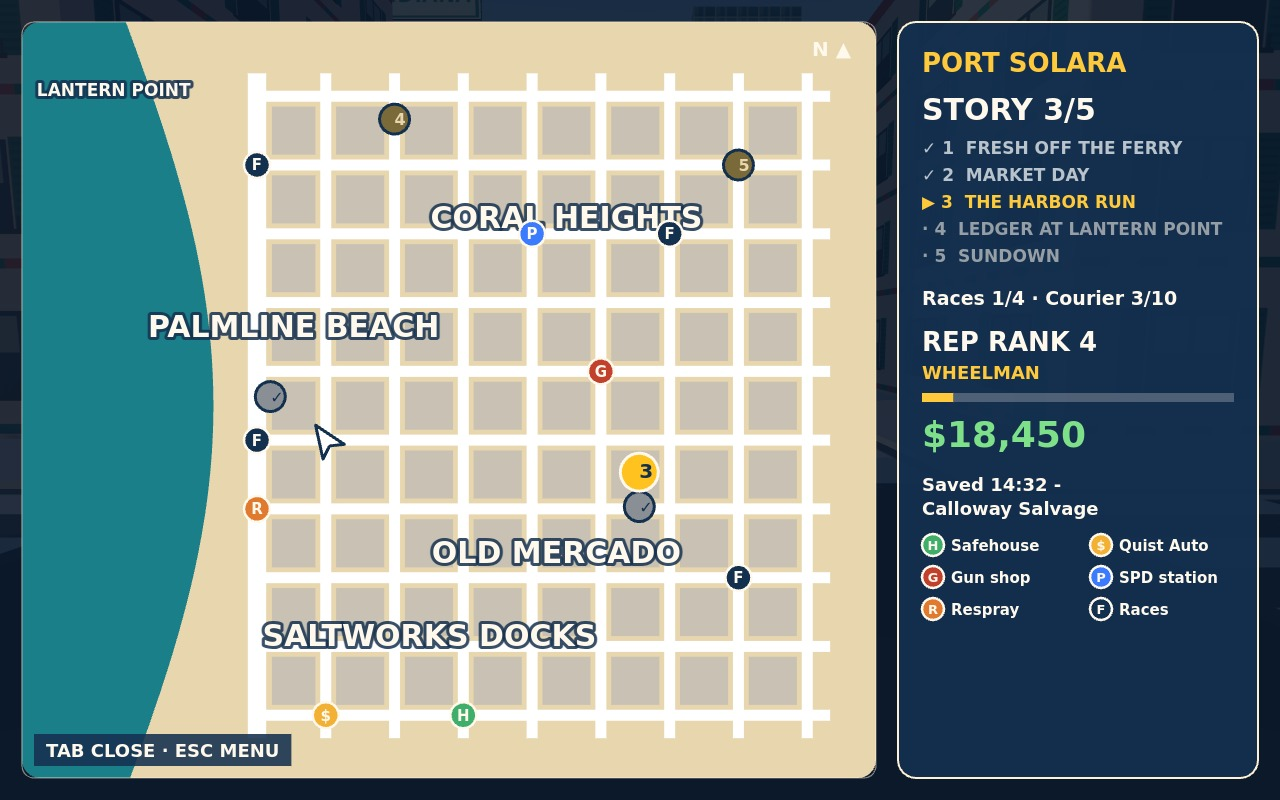
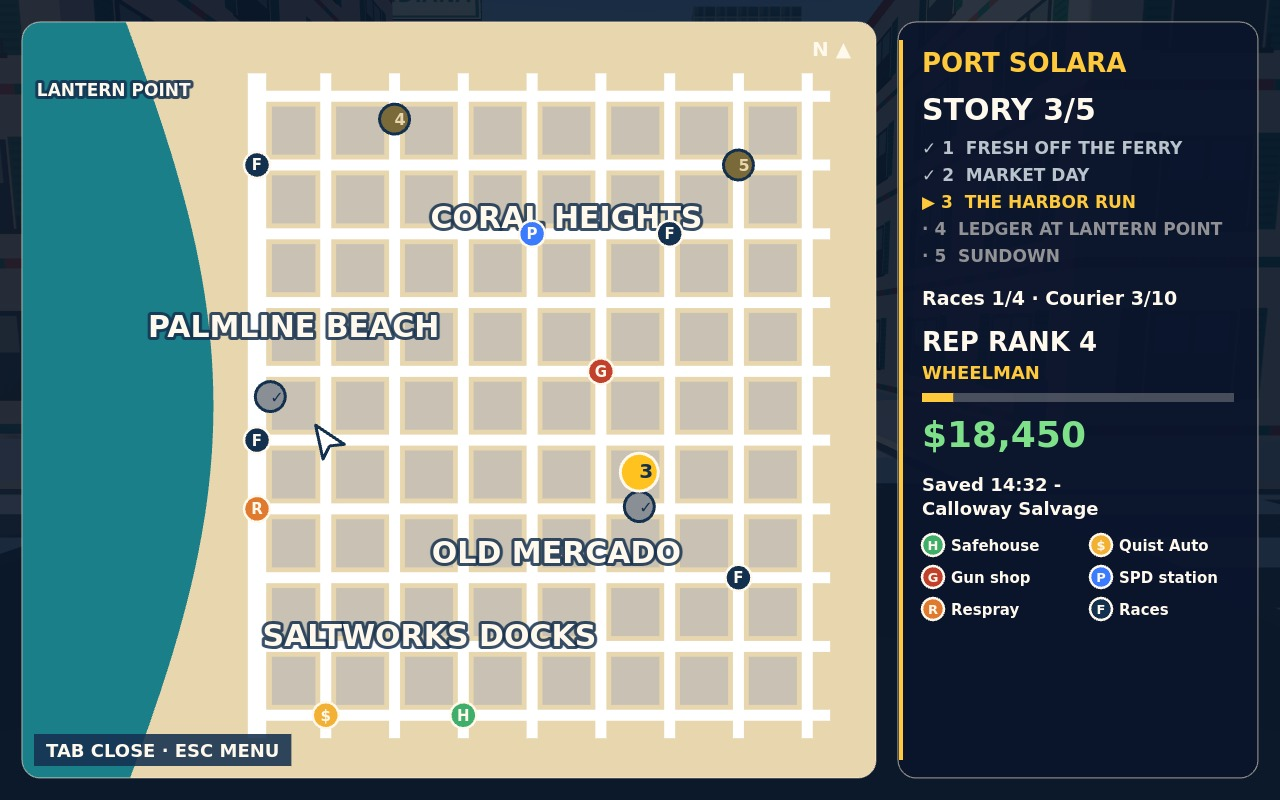
M6 step 6 (final): map side panel in the slim style (navy glass, 1 px rim, gold left strip; frame stroke radius back in line with its clip); 3-map.jpg 167.6 KiB; self-test SELFTEST PASS 23/23 (HIGH 169 draw calls / median 2.1 ms, LOW 110 / 1.3 ms), originality PASS, main.ts twice byte-identical (40 

Changed region(s): [[0.6875, 0.0, 1.0, 1.0]]

diff --git a/game/src/ui/menus-and-map.js b/game/src/ui/menus-and-map.js
@@ -304,7 +304,7 @@ function drawCityMap(ctx, game, rect, s) {
   ctx.fillText('N ▲', rect.x + rect.w - 64 * s, rect.y + 34 * s);
   ctx.restore();
   ctx.lineWidth = 1.2 * s; ctx.strokeStyle = 'rgba(255, 241, 214, 0.5)';
-  ctx.beginPath(); ctx.roundRect(rect.x, rect.y, rect.w, rect.h, 12 * s); ctx.stroke();
+  ctx.beginPath(); ctx.roundRect(rect.x, rect.y, rect.w, rect.h, 18 * s); ctx.stroke();
 }
 
 // Story order: done, then the first open one is current, the rest locked.
@@ -333,9 +333,11 @@ function badge(ctx, x, y, r, fill, mark, s) {
 
 // The side panel: story progress, side activity counts, REP rank, cash and the last save.
 function drawSidePanel(ctx, game, r, s) {
-  ctx.fillStyle = 'rgba(20, 48, 79, 0.94)';
+  ctx.fillStyle = 'rgba(10, 20, 44, 0.9)';
   ctx.beginPath(); ctx.roundRect(r.x, r.y, r.w, r.h, 18 * s); ctx.fill();
-  ctx.lineWidth = 2 * s; ctx.strokeStyle = '#fff1d6'; ctx.stroke();
+  ctx.lineWidth = 1.2 * s; ctx.strokeStyle = 'rgba(255, 241, 214, 0.5)'; ctx.stroke();
+  ctx.fillStyle = '#ffc93c';
+  ctx.fillRect(r.x + 1, r.y + 18 * s, 4 * s, r.h - 36 * s);
   const x = r.x + 24 * s;
   let y = r.y + 50 * s;
   const text = (t, size, color = '#fff8ec', weight = 800) => {

diff --git a/NOTES.md b/NOTES.md
@@ -28,20 +28,20 @@
 
 ## Self-test after M6 (SwiftShader, 1280x800): SELFTEST PASS, 23/23
 - perf before (M5): HIGH 168 draw calls / 42,235 tris / median 2.6-5.6 ms; LOW 110 / 26,135 /
-  0.8-0.9 ms. After (M6): HIGH 169 / 42,379 / median 2.1 ms / heap 51 MB; LOW 110 / 26,135 /
-  1.5 ms. Frame time is far inside the 70 ms budget; HIGH's 169 draw calls are over the 150
+  0.8-0.9 ms. After (M6, two runs): HIGH 169 / 42,379 / median 2.1 ms / heap 30-51 MB; LOW 110 /
+  26,135 / 1.3-1.5 ms. Frame time is far inside the 70 ms budget; HIGH's 169 draw calls are over the 150
   target but under the 200 hard cap, as in M5. (Single runs: medians vary by a few ms.)
-- Originality PASS (32 files). main.ts twice: 40 files byte-identical, dossier 1,114,667 bytes.
+- Originality PASS (32 files). main.ts twice: 40 files byte-identical, dossier 1,114,339 bytes.
   (main.ts must run without `ulimit -v 3000000`: Node's TypeScript stripper cannot get its Wasm
   memory under that cap.)
-- Shots: 1-chase.jpg 172.4 KiB (q80), 2-street.jpg 169.6 KiB (q88), 3-map.jpg 167.8 KiB (q92),
-  4-title.jpg 183.5 KiB (q84).
+- Shots: 1-chase.jpg 172.4 KiB (q80), 2-street.jpg 169.6 KiB (q88), 3-map.jpg 167.6 KiB (q92),
+  4-title.jpg 183.5 KiB (q84). The map side panel now has the slim style too (navy glass, 1 px
+  rim, gold left strip).
 
 ## Next (rest of M6)
 - Cover staging: re-aim the chase camera so the low sun sits in frame; glow on police bars and
   tail lights (a vendored bloom pass or additive light-bar halos), measured on SwiftShader.
 - Round minimap, drawn weapon icons (fists, Wasp, Hornet), dim the locked Hornet chip.
-- The map side panel still has its old 2 px white rim.
 
 ## M5 Shell and depth: done (steps 3-6 in the run of 2026-11-18 23:05-23:44 EET)
 - Step 3 settings (core/save-slots.js `DEFAULT_SETTINGS`, `GRAPHICS_PRESETS`, `applySettings`):
